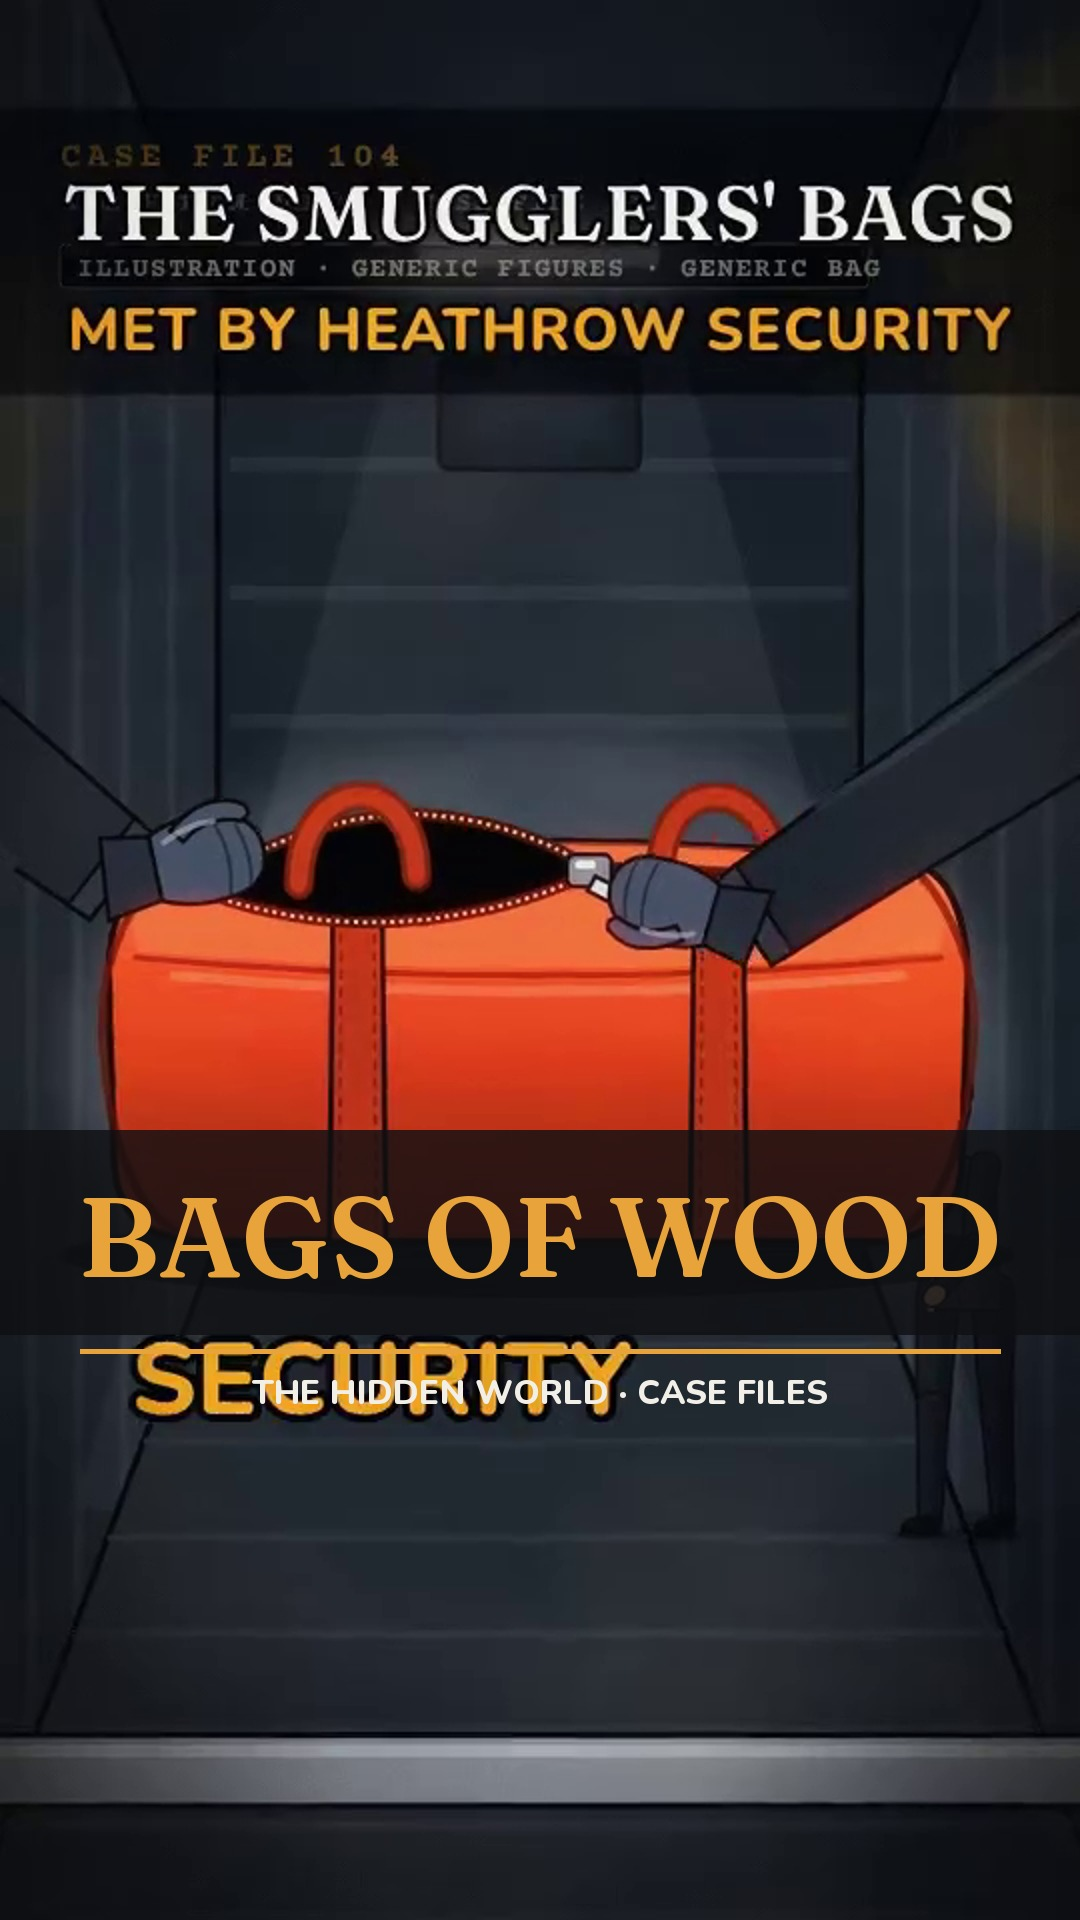
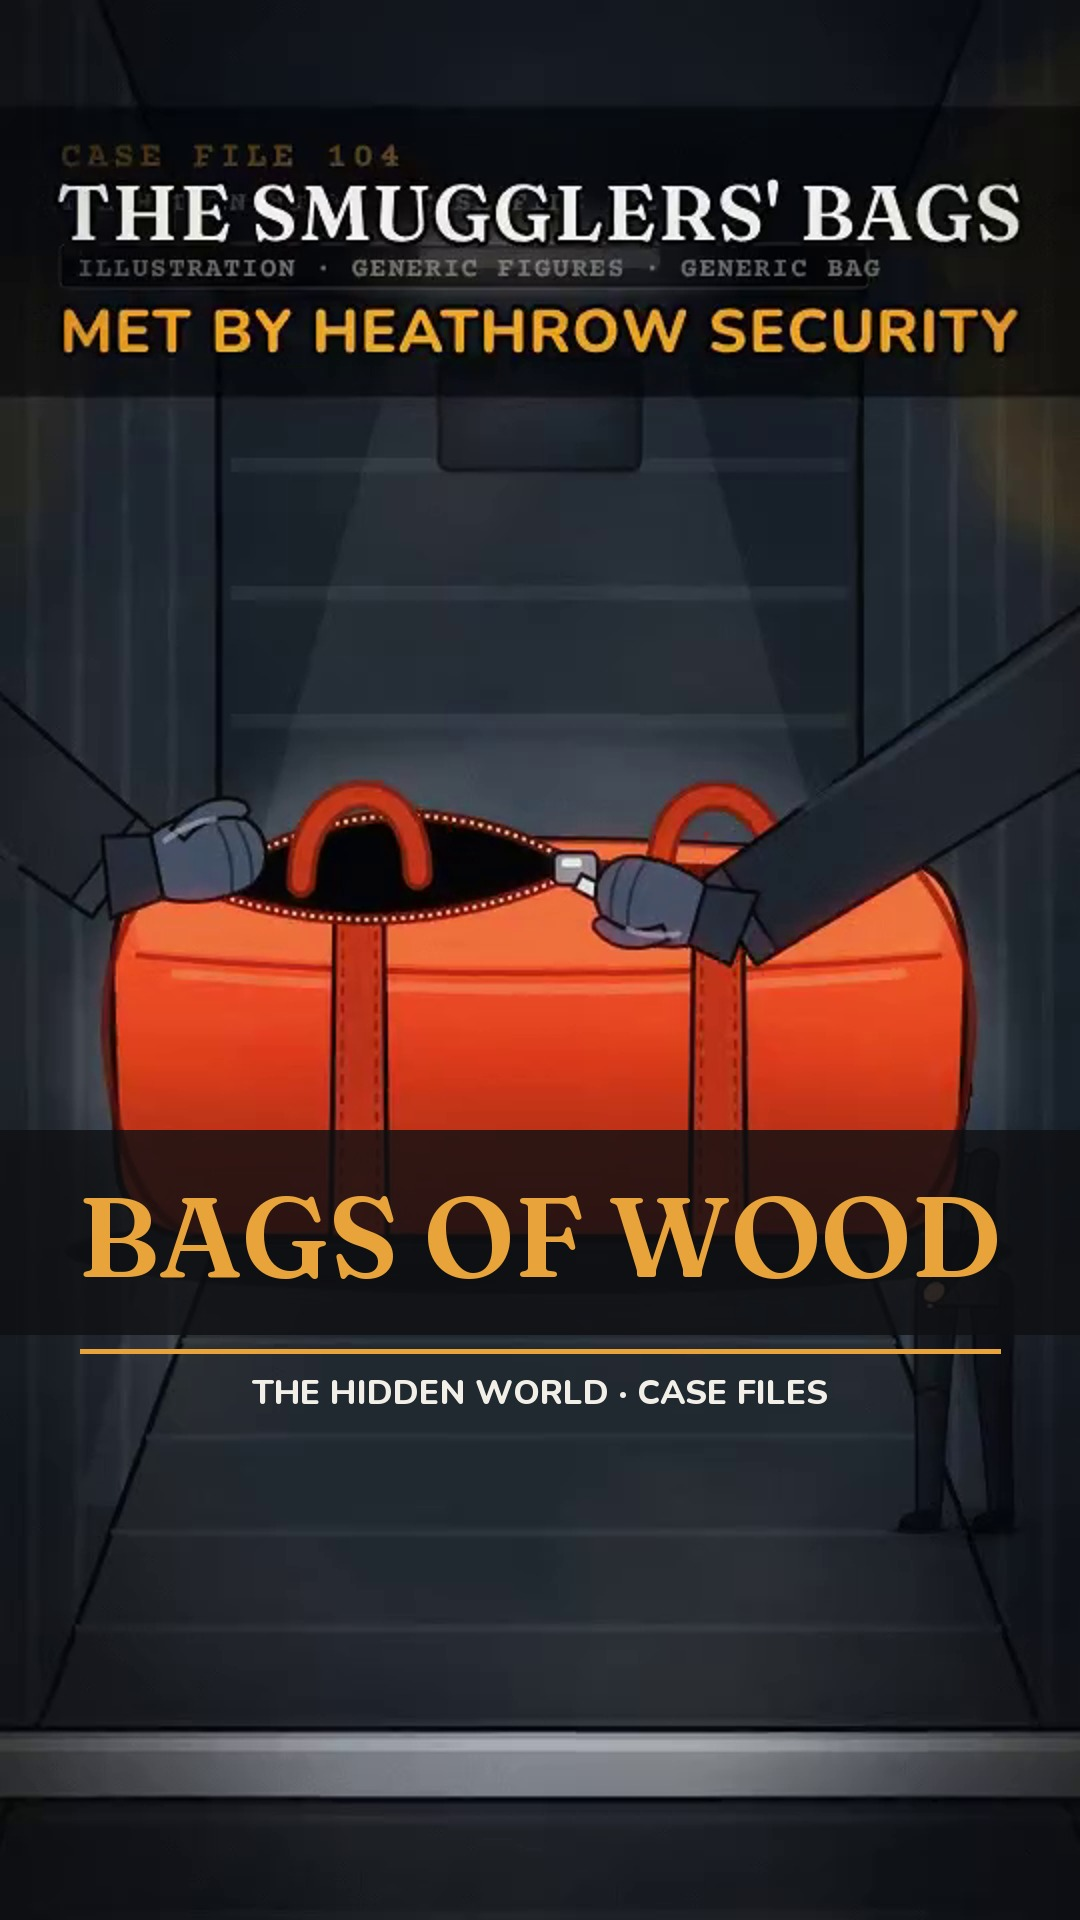
WIP: 104-105 in progress; production log
Claude-Session: https://claude.ai/code/session_0181YiZCGX4kUBAdb7SwkZ2H

diff --git a/renderer/scenes/tcv104-inside-man.js b/renderer/scenes/tcv104-inside-man.js
@@ -425,7 +425,7 @@
         figures: [{ ...OFFICER, keys: [{ at: Math.max(0.05, bl - 0.1), pose: 'point', expr: 'realise', headTurn: 0.4, dur: 0.35 }, { at: Math.max(0.8, back - 0.5), pose: 'examine', expr: 'focused', headTurn: 0, dur: 0.4 }] }],
         props: [heroProp(st, 'e')],
         overlays: [
-          { type: 'callout', at: bl, until: back - 0.45, target: [HERO.x - 40, HERO.y - 150], label: [1040, 520], anchor: 'end', w: 560, fs: 32, text: 'WOOD, NOT COCAINE', sub: 'Every block, per the NCA', r: 60, depth: 1.03 }
+          { type: 'callout', at: bl, until: back - 0.45, target: [HERO.x - 40, HERO.y - 150], label: [1040, 760], anchor: 'end', w: 560, fs: 32, text: 'WOOD, NOT COCAINE', sub: 'Every block, per the NCA', r: 60, depth: 1.03 }
         ],
         tag: TAG
       });

diff --git a/episodes/tcv104-inside-man/openings.md b/episodes/tcv104-inside-man/openings.md
@@ -4,7 +4,7 @@ Spec: Security boss at Heathrow / loaded, carried, smuggled / the smugglers' bag
 
 | # | spoken hook (first sentence) | words | gate | heard as (WER) | headline | cover | score |
 |---|---|---|---|---|---|---|---|
-| 1 | Security boss at Heathrow loaded the smugglers' bags. | 8 | ok | Security boss at Heathrow loaded the Smuggler's bags. (0.00) | THE SMUGGLERS' HOLDALL / AIRPORT SECURITY TOOK IT | BAGS OF WOOD | 90.0 |
+| 1 | Security boss at Heathrow loaded the smugglers' bags. | 8 | ok | Security boss at Heathrow loaded the Smuggler's bags. (0.00) | THE SMUGGLERS' BAGS / MET BY HEATHROW SECURITY | BAGS OF WOOD | 90.0 |
 | 2 | Security boss at Heathrow carried the smugglers' bags. | 8 | ok | Security boss at Heathrow carried the smugglers bags. (0.00) | 22 KG OF COCAINE / OR SO HE THOUGHT | THE INSIDE MAN | 90.0 |
 | 3 | Security boss at Heathrow smuggled the smugglers' bags. | 8 | ok | Security boss at Heathrow smuggled the smuggler's bags. (0.00) | HEATHROW SECURITY / MET THE COURIERS | 22 KG. WOOD. | 90.0 |
 
